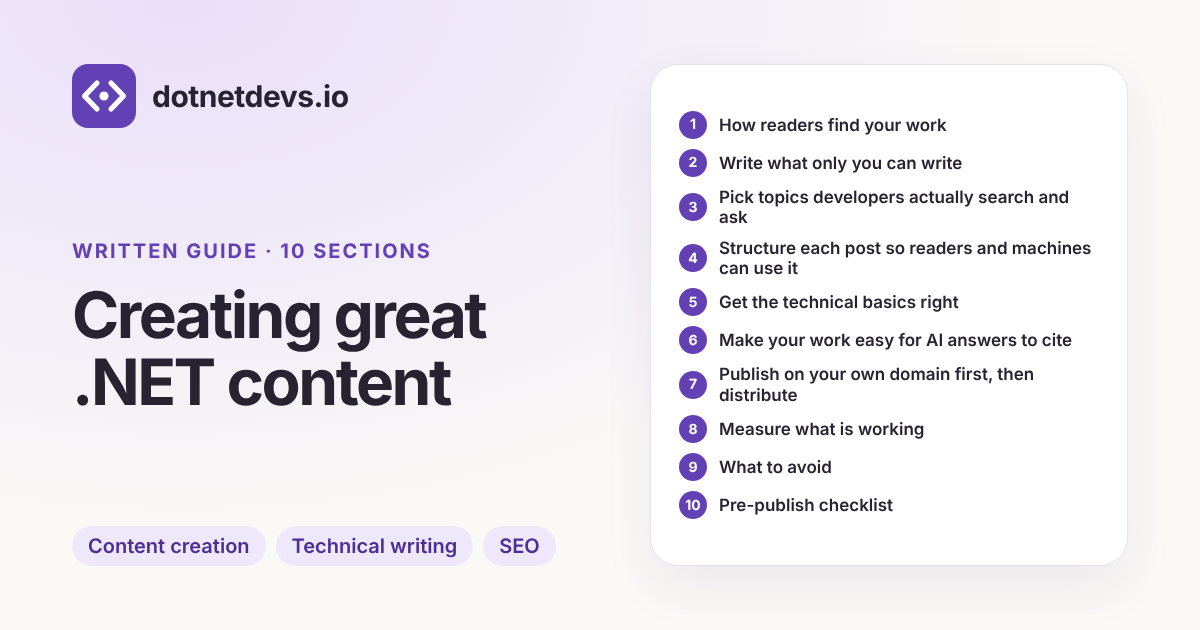
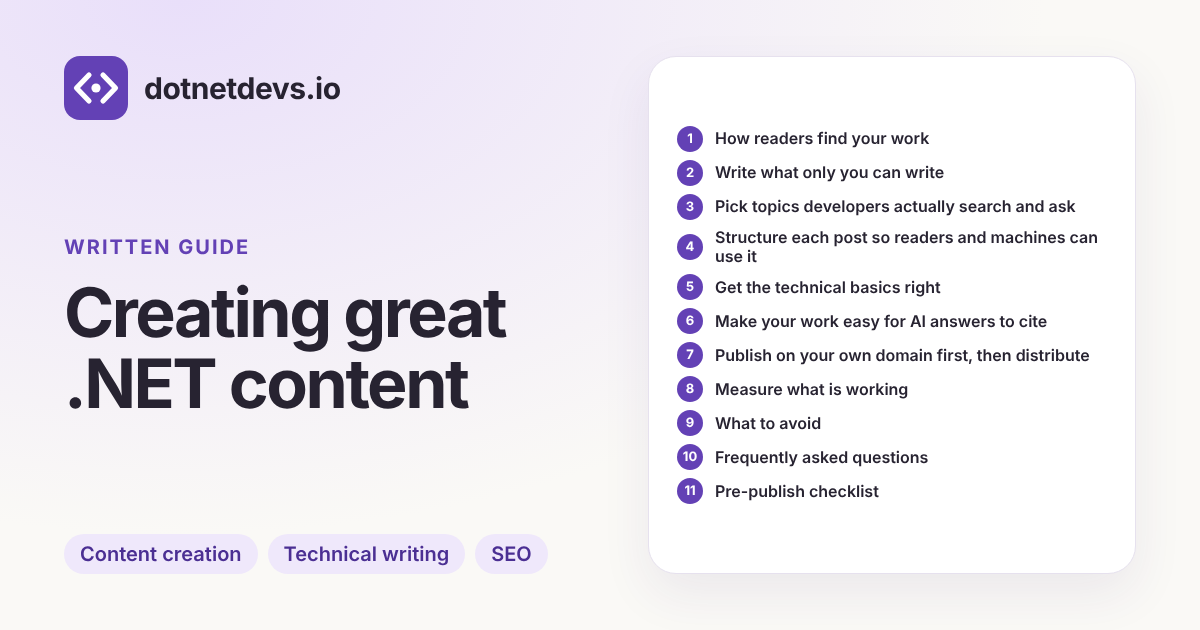
Optimize the content-creation guide for search and AI answers
Key takeaways at the top, an FAQ section, a keyword-focused title and
description, Open Graph article tags (published time, author, tags,
image alt), 16:9, 4:3 and 1:1 images in the Article graph, wordCount and
timeRequired, reading time, and takeaways plus FAQ in llms.txt.

Claude-Session: https://claude.ai/code/session_01S89YS8SGzT7cJxh9SsS7sp

diff --git a/src/lib/content.ts b/src/lib/content.ts
@@ -70,17 +70,31 @@ export const guideImagePath = (guide: Guide) => `/og/guides/${guide.slug}.png`;
 // Inline text supports **bold**, `code` and [links](url); see src/components/RichText.tsx.
 export type WrittenBlock =
   | { p: string } | { ul: string[] } | { ol: string[] } | { checklist: string[] }
-  | { table: { head: string[]; rows: string[][] } };
+  | { table: { head: string[]; rows: string[][] } } | { faq: { q: string; a: string }[] };
 export type WrittenSection = { id: string; title: string; blocks: WrittenBlock[] };
 export type WrittenSource = { title: string; url: string; publisher: string; note: string | null };
 export type WrittenGuide = {
   slug: string; title: string; seoTitle?: string; description: string; about?: string[];
-  published: string; reviewed: string; reviewedLabel: string; intro: string;
-  sections: WrittenSection[]; sources: WrittenSource[];
+  published: string; reviewed: string; reviewedLabel: string; intro: string; imageAlt: string;
+  takeaways: string[]; sections: WrittenSection[]; sources: WrittenSource[];
 };
 export const writtenGuides = writtenGuidesData as unknown as WrittenGuide[];
 export const writtenGuideBySlug = (slug: string) => writtenGuides.find(guide => guide.slug === slug);
+// Rendered by scripts/render-brand-assets.mjs: the 1200 × 630 sharing card plus 4:3 and 1:1 crops for search.
 export const writtenGuideImagePath = (guide: WrittenGuide) => `/og/guides/${guide.slug}.png`;
+export const writtenGuideImages = (guide: WrittenGuide) => [
+  { path: writtenGuideImagePath(guide), width: 1200, height: 630 },
+  { path: `/og/guides/${guide.slug}-4x3.png`, width: 1200, height: 900 },
+  { path: `/og/guides/${guide.slug}-1x1.png`, width: 1200, height: 1200 },
+];
+// Word count of the visible text, for reading time and Article structured data.
+const blockText = (block: WrittenBlock): string[] =>
+  'p' in block ? [block.p] : 'ul' in block ? block.ul : 'ol' in block ? block.ol : 'checklist' in block ? block.checklist
+    : 'faq' in block ? block.faq.flatMap(item => [item.q, item.a]) : [...block.table.head, ...block.table.rows.flat()];
+export const writtenGuideWordCount = (guide: WrittenGuide) =>
+  [guide.intro, ...guide.takeaways, ...guide.sections.flatMap(section => [section.title, ...section.blocks.flatMap(blockText)])]
+    .join(' ').replace(/\]\([^)]*\)/g, ']').split(/\s+/).filter(Boolean).length;
+export const writtenGuideReadingMinutes = (guide: WrittenGuide) => Math.max(1, Math.round(writtenGuideWordCount(guide) / 230));
 
 export type Post = {
   slug: string; title: string; image: string; imageAlt: string; topics: string[];

diff --git a/src/components/WrittenGuidePage.tsx b/src/components/WrittenGuidePage.tsx
@@ -1,10 +1,10 @@
 import Link from 'next/link';
 import { SiteChrome } from '@/components/SiteChrome';
 import { GuideCard } from '@/components/GuideCard';
-import { Block } from '@/components/RichText';
+import { Block, inline } from '@/components/RichText';
 import { site, externalProps } from '@/lib/site';
 import { writtenGuideStructuredData, serializeJsonLd } from '@/lib/seo';
-import { guides, writtenGuides, formatDate, type WrittenGuide } from '@/lib/content';
+import { guides, writtenGuides, formatDate, writtenGuideReadingMinutes, type WrittenGuide } from '@/lib/content';
 import legal from '@/content/legal.json';
 
 export function WrittenGuidePage({ guide }: { guide: WrittenGuide }) {
@@ -14,7 +14,7 @@ export function WrittenGuidePage({ guide }: { guide: WrittenGuide }) {
     <div className="container page">
       <nav className="breadcrumb" aria-label="Breadcrumb"><Link href="/guides/">Guides</Link><span aria-hidden="true">/</span><span>{guide.title}</span></nav>
       <section className="guide-hero" aria-labelledby="page-title">
-        <p className="kicker">Written guide · {guide.sections.length} sections · Updated <time dateTime={guide.reviewed}>{guide.reviewedLabel}</time></p>
+        <p className="kicker">Written guide · {writtenGuideReadingMinutes(guide)} min read · Updated <time dateTime={guide.reviewed}>{guide.reviewedLabel}</time></p>
         <h1 id="page-title">{guide.title}</h1>
         <p className="lead">{guide.intro}</p>
         <p className="guide-byline">By <Link href="/about/">{legal.owner}</Link> · Published <time dateTime={guide.published}>{formatDate(guide.published)}</time>{guide.reviewed !== guide.published && <> · Updated <time dateTime={guide.reviewed}>{formatDate(guide.reviewed)}</time></>}</p>
@@ -36,6 +36,10 @@ export function WrittenGuidePage({ guide }: { guide: WrittenGuide }) {
 
         <div className="main-column">
           <article className="prose written-guide">
+            <section className="takeaways" aria-labelledby="takeaways-title">
+              <h2 id="takeaways-title">Key takeaways</h2>
+              <ul>{guide.takeaways.map(item => <li key={item}>{inline(item)}</li>)}</ul>
+            </section>
             {guide.sections.map((section, i) => <section key={section.id} id={section.id} aria-labelledby={`${section.id}-title`}>
               <h2 id={`${section.id}-title`}><span className="toc-number" aria-hidden="true">{i + 1}</span> {section.title}</h2>
               {section.blocks.map((block, b) => <Block key={b} block={block} />)}

diff --git a/src/lib/seo.ts b/src/lib/seo.ts
@@ -1,6 +1,6 @@
 import { site, socialLinks } from '@/lib/site';
 import legal from '@/content/legal.json';
-import { guideImagePath, linkByUrl, writtenGuideImagePath, type CuratedLink, type Guide, type WrittenGuide } from '@/lib/content';
+import { guideImagePath, linkByUrl, writtenGuideImages, writtenGuideWordCount, writtenGuideReadingMinutes, type CuratedLink, type Guide, type WrittenGuide } from '@/lib/content';
 
 const id = (fragment: string) => new URL(`#${fragment}`, site.canonicalUrl).href;
 
@@ -118,7 +118,9 @@ export function writtenGuideStructuredData(guide: WrittenGuide) {
         author: { '@type': 'Person', '@id': id('founder'), name: legal.owner, url: new URL('/about/', site.canonicalUrl).href },
         isPartOf: { '@id': id('website') }, publisher: { '@id': id('organization') },
         breadcrumb: { '@id': `${url}#breadcrumb` },
-        image: { '@type': 'ImageObject', url: new URL(writtenGuideImagePath(guide), site.canonicalUrl).href, width: 1200, height: 630 },
+        image: writtenGuideImages(guide).map(image => ({ '@type': 'ImageObject', url: new URL(image.path, site.canonicalUrl).href, width: image.width, height: image.height, caption: guide.imageAlt })),
+        wordCount: writtenGuideWordCount(guide), timeRequired: `PT${writtenGuideReadingMinutes(guide)}M`,
+        isAccessibleForFree: true, audience: { '@type': 'Audience', audienceType: 'Developers and technical content creators' },
         articleSection: guide.sections.map(section => section.title),
         citation: guide.sources.map(source => ({ '@type': 'CreativeWork', name: source.title, url: source.url })),
         ...(guide.about?.length ? { about: guide.about.map(name => ({ '@type': 'Thing', name })), keywords: guide.about.join(', ') } : {}),

diff --git a/src/app/llms.txt/route.ts b/src/app/llms.txt/route.ts
@@ -1,9 +1,12 @@
 import { site, socialLinks, isIndexable } from '@/lib/site';
+import legal from '@/content/legal.json';
 import { issues, issueUrl, topics, activeTopics, guides, writtenGuides, linkByUrl, type CuratedLink } from '@/lib/content';
 
 export const dynamic = 'force-static';
 
 const page = (path: string) => new URL(path, site.canonicalUrl).href;
+// Written-guide text uses **bold** and `code` markers; llms.txt gets the words without them.
+const strip = (text: string) => text.replace(/\*\*|`/g, '');
 
 export function GET() {
   const content = isIndexable ? [
@@ -42,10 +45,18 @@ export function GET() {
     ...writtenGuides.flatMap(guide => [
       `## Guide: ${guide.title}`,
       '',
-      `${guide.intro} Updated ${guide.reviewedLabel}. Full guide: ${page(`/guides/${guide.slug}/`)}`,
+      `${guide.intro} By ${legal.owner}. Updated ${guide.reviewedLabel}. Full guide: ${page(`/guides/${guide.slug}/`)}`,
       '',
+      '### Key takeaways',
+      ...guide.takeaways.map(item => `- ${strip(item)}`),
+      '',
+      '### Sections',
       ...guide.sections.map((section, i) => `- ${i + 1}. [${section.title}](${page(`/guides/${guide.slug}/#${section.id}`)})`),
       '',
+      ...guide.sections.flatMap(section => section.blocks.flatMap(block => 'faq' in block ? [
+        '### Frequently asked questions',
+        ...block.faq.flatMap(item => [`Q: ${item.q}`, `A: ${strip(item.a)}`, '']),
+      ] : [])),
       '### Sources',
       ...guide.sources.map(source => `- [${source.title}](${source.url}), ${source.publisher}`),
       '',

diff --git a/src/lib/page-meta.ts b/src/lib/page-meta.ts
@@ -6,6 +6,10 @@ type PageMetaOptions = {
   image?: { path: string; alt: string };
   // Pages with a real review date are shared as articles with that modified time.
   modified?: string;
+  // Original articles also carry a publish date, an author and topic tags.
+  published?: string;
+  authors?: string[];
+  tags?: string[];
 };
 
 // Next.js replaces (not merges) openGraph/twitter objects from the root layout,
@@ -18,7 +22,10 @@ export function pageMetadata(path: string, title: string, description: string, o
   };
   const fullTitle = `${title} | ${site.name}`;
   const openGraph = options.modified
-    ? { type: 'article' as const, modifiedTime: options.modified }
+    ? { type: 'article' as const, modifiedTime: options.modified,
+        ...(options.published ? { publishedTime: options.published } : {}),
+        ...(options.authors?.length ? { authors: options.authors } : {}),
+        ...(options.tags?.length ? { tags: options.tags } : {}) }
     : { type: 'website' as const };
   return {
     title: fullTitle, description,

diff --git a/src/components/RichText.tsx b/src/components/RichText.tsx
@@ -20,6 +20,10 @@ export function Block({ block }: { block: WrittenBlock }) {
   if ('ul' in block) return <ul>{block.ul.map((item, i) => <li key={i}>{inline(item)}</li>)}</ul>;
   if ('ol' in block) return <ol>{block.ol.map((item, i) => <li key={i}>{inline(item)}</li>)}</ol>;
   if ('checklist' in block) return <ul className="checklist">{block.checklist.map((item, i) => <li key={i}><span className="check-box" aria-hidden="true" /><span>{inline(item)}</span></li>)}</ul>;
+  if ('faq' in block) return <div className="faq-list">{block.faq.map(item => <div key={item.q} className="faq-item">
+    <h3>{inline(item.q)}</h3>
+    <p>{inline(item.a)}</p>
+  </div>)}</div>;
   return <div className="table-wrap"><table>
     <thead><tr>{block.table.head.map(cell => <th key={cell} scope="col">{inline(cell)}</th>)}</tr></thead>
     <tbody>{block.table.rows.map((row, r) => <tr key={r}>{row.map((cell, c) => <td key={c}>{inline(cell)}</td>)}</tr>)}</tbody>

diff --git a/src/app/globals.css b/src/app/globals.css
@@ -254,6 +254,11 @@ html { scroll-padding-top: 92px; }
 .written-guide code { padding: 1px 5px; border-radius: 6px; background: var(--inset); border: 1px solid var(--inset-border); }
 .written-guide th code, .written-guide td code { white-space: nowrap; }
 .written-guide .table-wrap { margin: 12px 0; }
+.written-guide .takeaways { margin: 28px 0 8px; padding: 4px 24px 18px; border-radius: 18px; background: var(--tint); border: 1px solid var(--tint-border); }
+.written-guide .takeaways h2 { margin-top: 16px; font-size: 1.125rem; }
+.written-guide .takeaways + section { border-top: 0; }
+.faq-item h3 { margin: 24px 0 6px; font-size: 1.0625rem; line-height: 1.4; }
+.faq-item p { margin: 0; }
 .checklist { list-style: none; padding-left: 0 !important; }
 .checklist li { display: flex; gap: 12px; align-items: flex-start; }
 .check-box { flex: none; width: 18px; height: 18px; margin-top: 4px; border-radius: 5px; border: 2px solid var(--violet); }

diff --git a/src/app/guides/[slug]/page.tsx b/src/app/guides/[slug]/page.tsx
@@ -21,8 +21,9 @@ export async function generateMetadata({ params }: Props): Promise<Metadata> {
   const slug = (await params).slug;
   const written = writtenGuideBySlug(slug);
   if (written) return pageMetadata(`/guides/${written.slug}/`, written.seoTitle ?? written.title, written.description, {
-    image: { path: writtenGuideImagePath(written), alt: `${written.title}: a written guide from ${site.name}` },
-    modified: written.reviewed,
+    image: { path: writtenGuideImagePath(written), alt: written.imageAlt },
+    modified: written.reviewed, published: written.published,
+    authors: [new URL('/about/', site.canonicalUrl).href], tags: written.about,
   });
   const guide = guideBySlug(slug);
   if (!guide) return {};

diff --git a/src/components/GuideCard.tsx b/src/components/GuideCard.tsx
@@ -7,7 +7,7 @@ type Props = { guide: Guide | WrittenGuide; written?: boolean };
 // One card for both kinds of guide: reading paths (ordered articles) and written how-tos.
 export function GuideCard({ guide, written = false }: Props) {
   const kicker = written
-    ? `Written guide · ${guide.sections.length} sections · Updated ${guide.reviewedLabel}`
+    ? `Written guide · Updated ${guide.reviewedLabel}`
     : `Reading guide · ${guide.sections.length} steps · Reviewed ${guide.reviewedLabel}`;
   return <Link className="guide-card" href={`/guides/${guide.slug}/`}>
     <span className="kicker">{kicker}</span>
